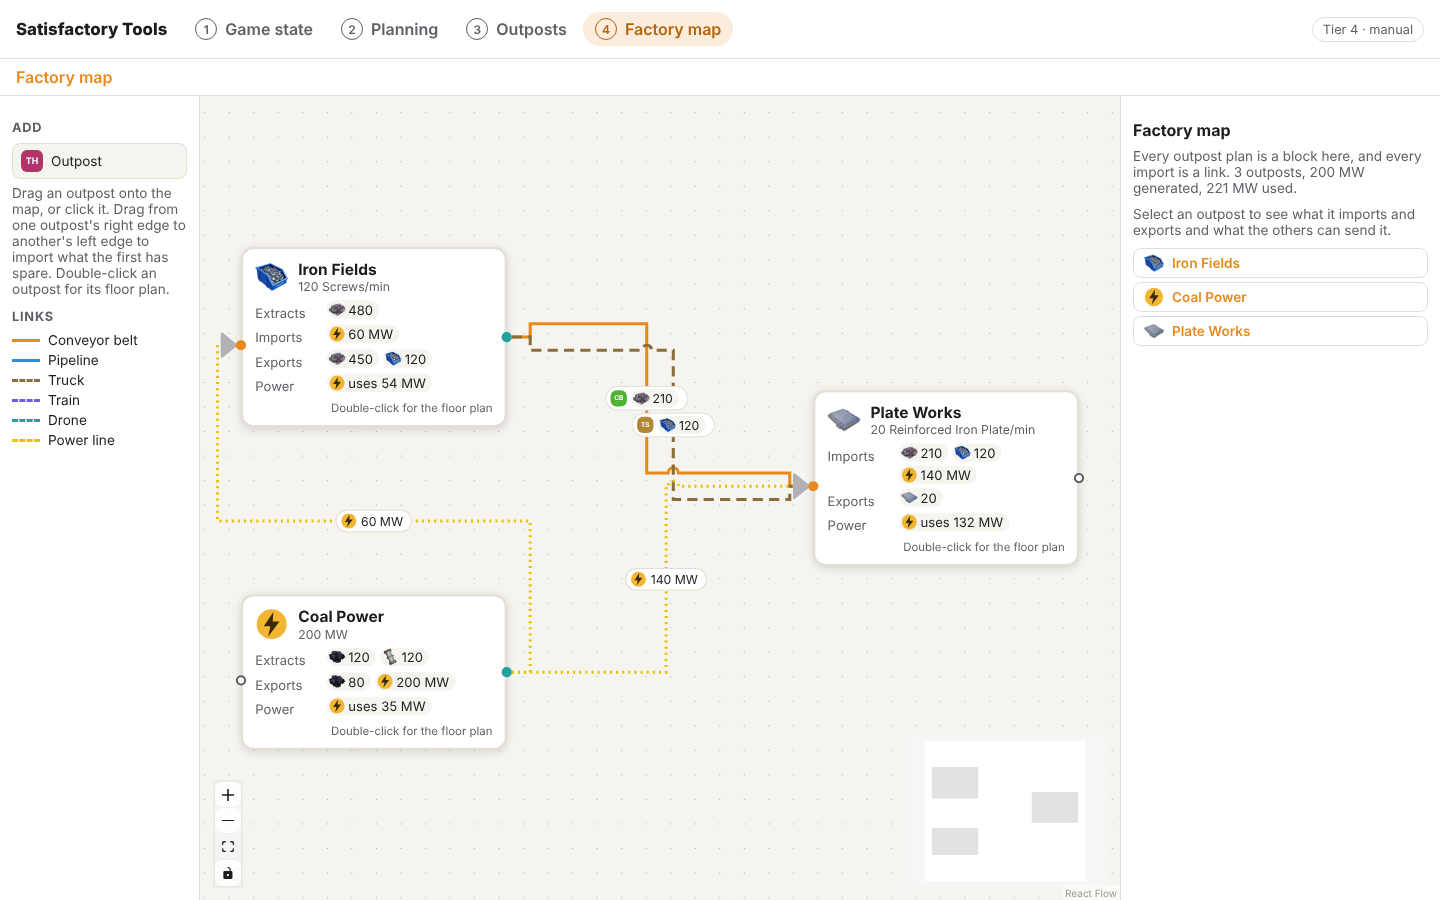
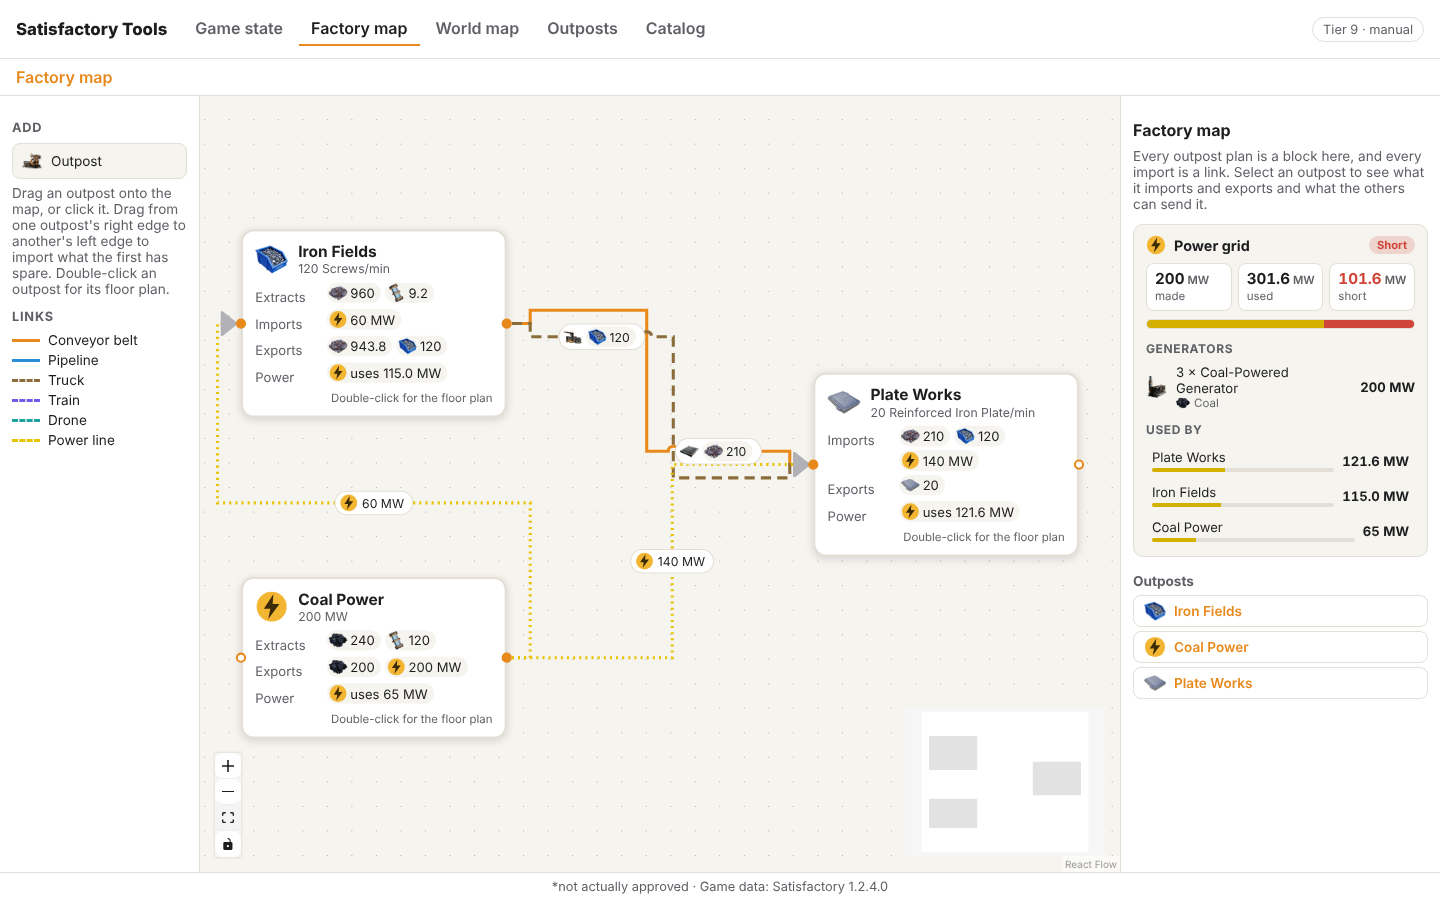
Factory map: show power as widgets in the side panel
The power grid (made, used, spare or short, generators, each outpost's
draw) and a selected outpost's power are drawn as tiles, bars and lists
instead of sentences.

Claude-Session: https://claude.ai/code/session_01J2u19PCJCBKDg51nc9NJsY

diff --git a/src/editor/PowerWidgets.tsx b/src/editor/PowerWidgets.tsx
@@ -1,0 +1,151 @@
+// Power on the factory map's side panel, drawn as gauges and lists rather than sentences (#66).
+// For now every outpost shares one grid: generators feed it, and an outpost that doesn't run on
+// its own generators draws from it.
+import { itemName } from '../data'
+import { displayName, POWER } from '../data/icons'
+import type { Solved } from '../plan/network'
+import { GameIcon } from '../ui/GameIcon'
+import { fmt } from './generate'
+import { gridBalance } from './power'
+import type { PowerLine } from './model'
+
+const EPS = 1e-6
+
+/** A bar of what is used against what is made; anything used beyond that shows red. */
+export function PowerMeter({ made, used, label }: { made: number; used: number; label?: string }) {
+  const full = Math.max(made, used, EPS)
+  const ok = Math.min(used, made)
+  const short = Math.max(0, used - made)
+  const pct = (v: number) => `${(v / full) * 100}%`
+  const title = made > EPS ? `${fmt((used / made) * 100)}% of ${fmt(made)} MW used` : `${fmt(used)} MW used, nothing made`
+  return (
+    <div className="pw-meter" role="meter" aria-label={label ?? 'Power used'} aria-valuemin={0} aria-valuemax={made} aria-valuenow={used} title={title}>
+      <span className="pw-fill" style={{ width: pct(ok) }} />
+      {short > EPS && <span className="pw-fill pw-over" style={{ width: pct(short) }} />}
+    </div>
+  )
+}
+
+function Tile({ mw, label, tone }: { mw: number; label: string; tone?: 'good' | 'bad' }) {
+  return (
+    <div className={`pw-tile${tone ? ` ${tone}` : ''}`}>
+      <b>
+        {fmt(mw)}
+        <small> MW</small>
+      </b>
+      <span>{label}</span>
+    </div>
+  )
+}
+
+/** The whole map's power grid: balance, generators and who draws from it. */
+export function GridPanel({ all, onSelect }: { all: Solved[]; onSelect: (id: string) => void }) {
+  const g = gridBalance(all)
+  if (g.made < EPS && g.used < EPS) return null
+  const short = g.headroom < -EPS
+  return (
+    <section className="pw-card" aria-label="Power grid">
+      <header className="pw-head">
+        <GameIcon id={POWER} size={20} link={false} />
+        <span className="ne-grow">Power grid</span>
+        <span className={`pw-pill ${short ? 'bad' : 'good'}`}>{short ? 'Short' : 'OK'}</span>
+      </header>
+      <div className="pw-tiles">
+        <Tile mw={g.made} label="made" />
+        <Tile mw={g.used} label="used" />
+        <Tile mw={Math.abs(g.headroom)} label={short ? 'short' : 'spare'} tone={short ? 'bad' : 'good'} />
+      </div>
+      <PowerMeter made={g.made} used={g.used} label="Grid power used" />
+      {g.generators.length > 0 && (
+        <>
+          <h5 className="pw-sub">Generators</h5>
+          <ul className="pw-rows">
+            {g.generators.map((x) => (
+              <li key={`${x.generator}|${x.fuel}`}>
+                <GameIcon id={x.generator} size={22} link={false} />
+                <span className="ne-grow">
+                  {x.count} × {displayName(x.generator)}
+                  <span className="pw-fuel">
+                    <GameIcon id={x.fuel} size={14} link={false} /> {itemName(x.fuel)}
+                  </span>
+                </span>
+                <b className="pw-mw">{fmt(x.mw)} MW</b>
+              </li>
+            ))}
+          </ul>
+        </>
+      )}
+      {g.consumers.length > 0 && (
+        <>
+          <h5 className="pw-sub">Used by</h5>
+          <ul className="pw-rows">
+            {g.consumers.map((c) => (
+              <li key={c.id}>
+                <button type="button" className="ghost pw-row-btn" onClick={() => onSelect(c.id)} title={c.own ? 'Runs on its own generators' : 'Draws from the grid'}>
+                  <span className="ne-grow pw-name">
+                    {c.name}
+                    <span className="pw-share">
+                      <span style={{ width: `${(c.mw / Math.max(g.used, EPS)) * 100}%` }} />
+                    </span>
+                  </span>
+                  <b className="pw-mw">{fmt(c.mw)} MW</b>
+                </button>
+              </li>
+            ))}
+          </ul>
+        </>
+      )}
+    </section>
+  )
+}
+
+/** One outpost's power: what it uses, what it makes, and where the rest comes from or goes. */
+export function OutpostPower({ solved, all, powerLines }: { solved: Solved; all: Solved[]; powerLines: PowerLine[] }) {
+  const { plan, solution } = solved
+  const { consumedMW: used, generatedMW: made, exportedMW } = solution.power
+  if (used < EPS && made < EPS) return null
+  const nameOf = (id: string) => all.find((s) => s.plan.id === id)?.plan.name ?? '?'
+  const own = plan.selfPowered && made > EPS
+  const lines = [
+    ...powerLines.filter((l) => l.to === plan.id).map((l) => ({ id: l.id, dir: 'from' as const, other: nameOf(l.from), mw: l.mw })),
+    ...powerLines.filter((l) => l.from === plan.id).map((l) => ({ id: l.id, dir: 'to' as const, other: nameOf(l.to), mw: l.mw })),
+  ]
+  const sent = lines.filter((l) => l.dir === 'to').reduce((t, l) => t + l.mw, 0)
+  return (
+    <section className="pw-card" aria-label="Outpost power">
+      <header className="pw-head">
+        <GameIcon id={POWER} size={20} link={false} />
+        <span className="ne-grow">Power</span>
+        {own && used > made + EPS && <span className="pw-pill bad">Short</span>}
+      </header>
+      <div className="pw-tiles">
+        <Tile mw={used} label="uses" />
+        {made > EPS && <Tile mw={made} label="makes" />}
+        {own ? (
+          used > made + EPS && <Tile mw={used - made} label="short" tone="bad" />
+        ) : (
+          used > EPS && <Tile mw={used} label="from the grid" />
+        )}
+        {exportedMW > EPS && <Tile mw={exportedMW} label="to the grid" tone="good" />}
+      </div>
+      {/* What it makes against what is spoken for: its own machines, and the lines to other outposts. */}
+      {made > EPS && <PowerMeter made={made} used={(own ? used : 0) + sent} label="Power spoken for" />}
+      {lines.length > 0 && (
+        <>
+          <h5 className="pw-sub">Power lines</h5>
+          <ul className="pw-rows">
+            {lines.map((l) => (
+              <li key={l.id}>
+                <span className="pw-dir">{l.dir === 'from' ? '←' : '→'}</span>
+                <span className="ne-grow">
+                  {l.dir} {l.other}
+                </span>
+                <b className="pw-mw">{fmt(l.mw)} MW</b>
+              </li>
+            ))}
+          </ul>
+        </>
+      )}
+    </section>
+  )
+}

diff --git a/src/editor/Inspector.tsx b/src/editor/Inspector.tsx
@@ -11,6 +11,7 @@ import type { LineLoad } from './floorPlanView'
 import { transports, type BeltData, type LinkEdge, type MachineData, type PortData, type PowerLine } from './model'
 import { editorPath } from './route'
 import { useUnlocked } from './unlocked'
+import { GridPanel, OutpostPower } from './PowerWidgets'
 
 const num = (v: string, fallback = 0) => (v !== '' && Number.isFinite(Number(v)) ? Number(v) : fallback)
 
@@ -25,8 +26,6 @@ function ItemSelect({ value, onChange }: { value?: string; onChange: (id: string
 }
 
 export function MacroOverview({ all, onSelect, onExample }: { all: Solved[]; onSelect: (id: string) => void; onExample: () => void }) {
-  const generated = all.reduce((t, s) => t + s.solution.power.generatedMW, 0)
-  const used = all.reduce((t, s) => t + s.solution.power.consumedMW, 0)
   // The example uses an Assembler and Coal Generators; don't show it before those are unlocked.
   const unlocked = useUnlocked()
   const exampleFits = ['Desc_AssemblerMk1_C', 'Desc_GeneratorCoal_C'].every((id) => [...unlocked.machines, ...unlocked.generators].some((b) => b.id === id))
@@ -34,10 +33,11 @@ export function MacroOverview({ all, onSelect, onExample }: { all: Solved[]; onS
     <section>
       <h3>Factory map</h3>
       <p className="ne-help">
-        Every outpost plan is a block here, and every import is a link. {all.length} outposts, {fmt(generated)} MW generated,{' '}
-        {fmt(used)} MW used.
+        Every outpost plan is a block here, and every import is a link. Select an outpost to see what it imports and exports and
+        what the others can send it.
       </p>
-      <p className="ne-help">Select an outpost to see what it imports and exports and what the others can send it.</p>
+      <GridPanel all={all} onSelect={onSelect} />
+      <h4>Outposts</h4>
       <ul className="ne-list">
         {all.map(({ plan }) => {
           const g = plan.goals[0]
@@ -113,6 +113,7 @@ export function OutpostInspector({
       <a className="ne-textlink" href={`#/outposts/${plan.id}/goal`}>
         Edit goal, resources and recipes
       </a>
+      <OutpostPower solved={solved} all={all} powerLines={powerLines} />
 
       <h4>Imports</h4>
       {plan.imports.length ? (
@@ -134,7 +135,7 @@ export function OutpostInspector({
       )}
 
       <h4>Exports</h4>
-      {exported.length || solution.power.exportedMW > 1e-6 ? (
+      {exported.length ? (
         <ul className="ne-list">
           {exported.map((f) => {
             const taken = importsFromOthers.filter((i) => i.item === f.item)
@@ -146,15 +147,9 @@ export function OutpostInspector({
               </li>
             )
           })}
-          {solution.power.exportedMW > 1e-6 && (
-            <li>
-              <GameIcon id={POWER} size={18} />
-              {fmt(solution.power.exportedMW)} MW
-            </li>
-          )}
         </ul>
       ) : (
-        <p className="ne-help">Nothing leaves this outpost yet.</p>
+        <p className="ne-help">{solution.power.exportedMW > 1e-6 ? 'Only power, shown above.' : 'Nothing leaves this outpost yet.'}</p>
       )}
 
       <h4>Available from other outposts</h4>

diff --git a/src/editor/editor.css b/src/editor/editor.css
@@ -124,3 +124,31 @@ a.button { display: inline-block; border-radius: 8px; text-decoration: none; fon
 .ne-markers { position: absolute; width: 0; height: 0; overflow: hidden; }
 .ne-arrow-belt { fill: #e8891c; }
 .ne-arrow-pipe { fill: #2b8fd6; }
+
+/* Power widgets on the factory map's side panel (#66). */
+.pw-card { border: 1px solid var(--border); border-radius: 10px; background: var(--bg); padding: 10px 12px; margin: 12px 0; display: grid; gap: 8px; }
+.pw-head { display: flex; align-items: center; gap: 8px; font-weight: 700; font-size: .9rem; }
+.pw-pill { font-size: .7rem; font-weight: 700; padding: 2px 8px; border-radius: 999px; }
+.pw-pill.good { background: color-mix(in srgb, #3a9d5d 18%, transparent); color: #3a9d5d; }
+.pw-pill.bad { background: color-mix(in srgb, var(--danger) 18%, transparent); color: var(--danger); }
+.pw-tiles { display: grid; grid-template-columns: repeat(auto-fit, minmax(80px, 1fr)); gap: 6px; }
+.pw-tile { display: grid; gap: 2px; border: 1px solid var(--border); border-radius: 8px; padding: 6px 8px; background: var(--surface); line-height: 1.2; }
+.pw-tile b { font-size: .95rem; font-variant-numeric: tabular-nums; white-space: nowrap; }
+.pw-tile small { font-size: .7rem; font-weight: 600; color: var(--muted); }
+.pw-tile span { font-size: .72rem; color: var(--muted); }
+.pw-tile.good b { color: #3a9d5d; }
+.pw-tile.bad b { color: var(--danger); }
+.pw-meter { display: flex; height: 10px; border-radius: 999px; overflow: hidden; background: color-mix(in srgb, #d4b000 16%, var(--surface)); border: 1px solid var(--border); }
+.pw-fill { display: block; height: 100%; background: #d4b000; }
+.pw-fill.pw-over { background: var(--danger); }
+.pw-sub { margin: 4px 0 0; font-size: .75rem; color: var(--muted); text-transform: uppercase; letter-spacing: .05em; }
+.pw-rows { list-style: none; margin: 0; padding: 0; display: grid; gap: 4px; font-size: .82rem; }
+.pw-rows li { display: flex; align-items: center; gap: 8px; min-height: 26px; }
+.pw-fuel { display: flex; align-items: center; gap: 4px; color: var(--muted); font-size: .72rem; }
+.pw-mw { font-variant-numeric: tabular-nums; white-space: nowrap; }
+.pw-rows .pw-row-btn { border: 0; border-radius: 6px; display: flex; align-items: center; gap: 8px; width: 100%; text-align: left; color: var(--text); font-weight: 400; padding: 4px 6px; }
+.pw-name { display: grid; gap: 3px; }
+.pw-share { display: block; height: 4px; border-radius: 999px; background: var(--border); overflow: hidden; }
+.pw-share span { display: block; height: 100%; background: #d4b000; }
+.pw-dir { width: 22px; text-align: center; color: #d4b000; font-weight: 700; }
+.pw-rows .pw-row-btn:hover { background: color-mix(in srgb, var(--accent) 10%, transparent); }

diff --git a/src/editor/floorplan.test.ts b/src/editor/floorplan.test.ts
@@ -5,6 +5,7 @@ import { solvePlan } from '../plan/network'
 import type { OutpostPlan } from '../plan/types'
 import { connection, place } from './connect'
 import { inferFlows } from './flow'
+import { gridBalance } from './power'
 import { proposeLayout } from './generate'
 import { cellOf, edgeMedium, overlaps, poleSize, type BlockKind } from './grid'
 import type { MicroGraph, MicroNode } from './model'
@@ -199,5 +200,19 @@ describe('full clock and overflow (#73)', () => {
     const ore = g.nodes.find((n) => n.data.kind === 'port' && n.data.transport === 'resource')!
     const first = g.edges.find((e) => e.source === ore.id)!
     expect(g.edges.filter((e) => e.source === first.target).some((e) => nodes.get(e.target)?.data.kind === 'machine')).toBe(true)
+  })
+})
+
+describe('power grid on the factory map (#66)', () => {
+  it('adds up what generators make and what outposts use', () => {
+    const power = solvePlan(plan({ id: 'p', name: 'Power', goals: [{ kind: 'power', mw: 200, generator: 'Desc_GeneratorCoal_C', fuel: 'Desc_Coal_C' }], nodes: [{ id: 'n', resource: 'Desc_Coal_C', purity: 'normal' }] }), all)
+    const works = solvePlan(plan({ id: 'w', name: 'Works', goals: [{ kind: 'item', item: 'Desc_IronPlateReinforced_C', perMin: 20 }], recipeChoices: { Desc_IronScrew_C: 'Recipe_Screw_C' } }), all)
+    const g = gridBalance([power, works])
+    expect(g.made).toBeCloseTo(200)
+    expect(g.used).toBeCloseTo(power.solution.power.consumedMW + works.solution.power.consumedMW)
+    expect(g.headroom).toBeCloseTo(g.made - g.used)
+    expect(g.generators).toEqual([{ generator: 'Desc_GeneratorCoal_C', fuel: 'Desc_Coal_C', count: 3, mw: 200 }])
+    expect(g.consumers.map((c) => c.id)).toContain('w')
+    expect(g.consumers.every((c, i, a) => i === 0 || a[i - 1].mw >= c.mw)).toBe(true)
   })
 })

diff --git a/src/editor/power.ts b/src/editor/power.ts
@@ -1,0 +1,27 @@
+// The factory map's power grid in numbers, for the side panel's widgets (#66).
+// For now every outpost shares one grid.
+import type { Solved } from '../plan/network'
+
+const EPS = 1e-6
+
+/** One grid's balance: what its generators make and what its machines use. */
+export function gridBalance(all: Solved[]) {
+  const made = all.reduce((t, s) => t + s.solution.power.generatedMW, 0)
+  const used = all.reduce((t, s) => t + s.solution.power.consumedMW, 0)
+  // Generators by type and fuel, across every outpost.
+  const gens = new Map<string, { generator: string; fuel: string; count: number; mw: number }>()
+  for (const s of all)
+    for (const g of s.solution.generators) {
+      const key = `${g.generator}|${g.fuel}`
+      const x = gens.get(key) ?? { generator: g.generator, fuel: g.fuel, count: 0, mw: 0 }
+      x.count += Math.ceil(g.machines - EPS)
+      x.mw += g.mw
+      gens.set(key, x)
+    }
+  const consumers = all
+    .filter((s) => s.solution.power.consumedMW > EPS)
+    .map((s) => ({ id: s.plan.id, name: s.plan.name, mw: s.solution.power.consumedMW, own: s.plan.selfPowered && s.solution.power.generatedMW > EPS }))
+    .sort((a, b) => b.mw - a.mw)
+  return { made, used, headroom: made - used, generators: [...gens.values()].sort((a, b) => b.mw - a.mw), consumers }
+}
+

diff --git a/docs/node-editor.md b/docs/node-editor.md
@@ -17,6 +17,8 @@ Each block shows the outpost's goal, what it extracts, what it imports, what it 
 
 Links are coloured by how they travel: belt, pipe, truck, train, drone, or power line. When two outposts have several links, they are drawn side by side.
 
+With nothing selected, the right-hand panel shows the **power grid** as a widget (#66): what the generators make, what the outposts use, and what is spare or short, as tiles and a bar that turns red past what is made. Below it are the generators (count, type and fuel) and every outpost's draw, with a bar for its share; click one to select it. All outposts share one grid for now; separate grids are #61.
+
 ## How lines and ports are drawn
 
 Both levels draw lines like a circuit schematic: horizontal and vertical runs with 90° corners, a small hop where one line crosses another (so a crossing never looks like a join), and every connection point a small circle, hollow while free and filled once connected. On the floor plan each point is coloured by what it carries (see [Connection points](#connection-points)).
@@ -29,6 +31,7 @@ What you can do:
 
 - **Add an outpost**: drag "Outpost" from the left onto the map, or click it. This creates an empty plan.
 - **Import between outposts**: drag from one outpost's right edge to another's left edge. The new link imports whatever the first outpost has spare (its first open offer). If it only has power spare, you get a power line instead. Select the link to change the item, rate or transport.
+- **See an outpost's power**: select it. A power widget shows what it uses and makes, what it takes from or gives to the grid, how much of its output is spoken for, and its power lines to other outposts.
 - **See what you could import**: select an outpost. The panel lists its imports and exports, and everything the other outposts still have spare, each with an Import button. Power from power outposts has a Connect button.
 - **Open the floor plan**: double-click an outpost, or use "Open floor plan" in its panel.
 - **Delete**: select a block or link and press Delete or Backspace, or use the button in the panel. Deleting an outpost deletes its plan and any imports that came from it.
@@ -132,6 +135,7 @@ All of it is in `src/editor/`:
 | `router.ts` | Factory-map routing and the hops drawn at crossings on both levels. |
 | `Symbols.tsx` | Splitter, merger, pipeline junction, power pole and conveyor lift symbols. |
 | `Inspector.tsx` | The right-hand panel for whatever is selected. |
+| `PowerWidgets.tsx`, `power.ts` | The power grid and outpost power widgets in that panel. |
 | `store.ts` | The editor's own stored state, the example outposts, palette lists. |
 | `unlocked.ts` | `useUnlocked()`: palette and picker lists cut down to what the game state has unlocked (machines, generators, recipes, fuels, items, link types, best belt and pipe). |
 | `icons.ts`, `GameIcon.tsx` | Icon lookup with the lettered fallback. |
